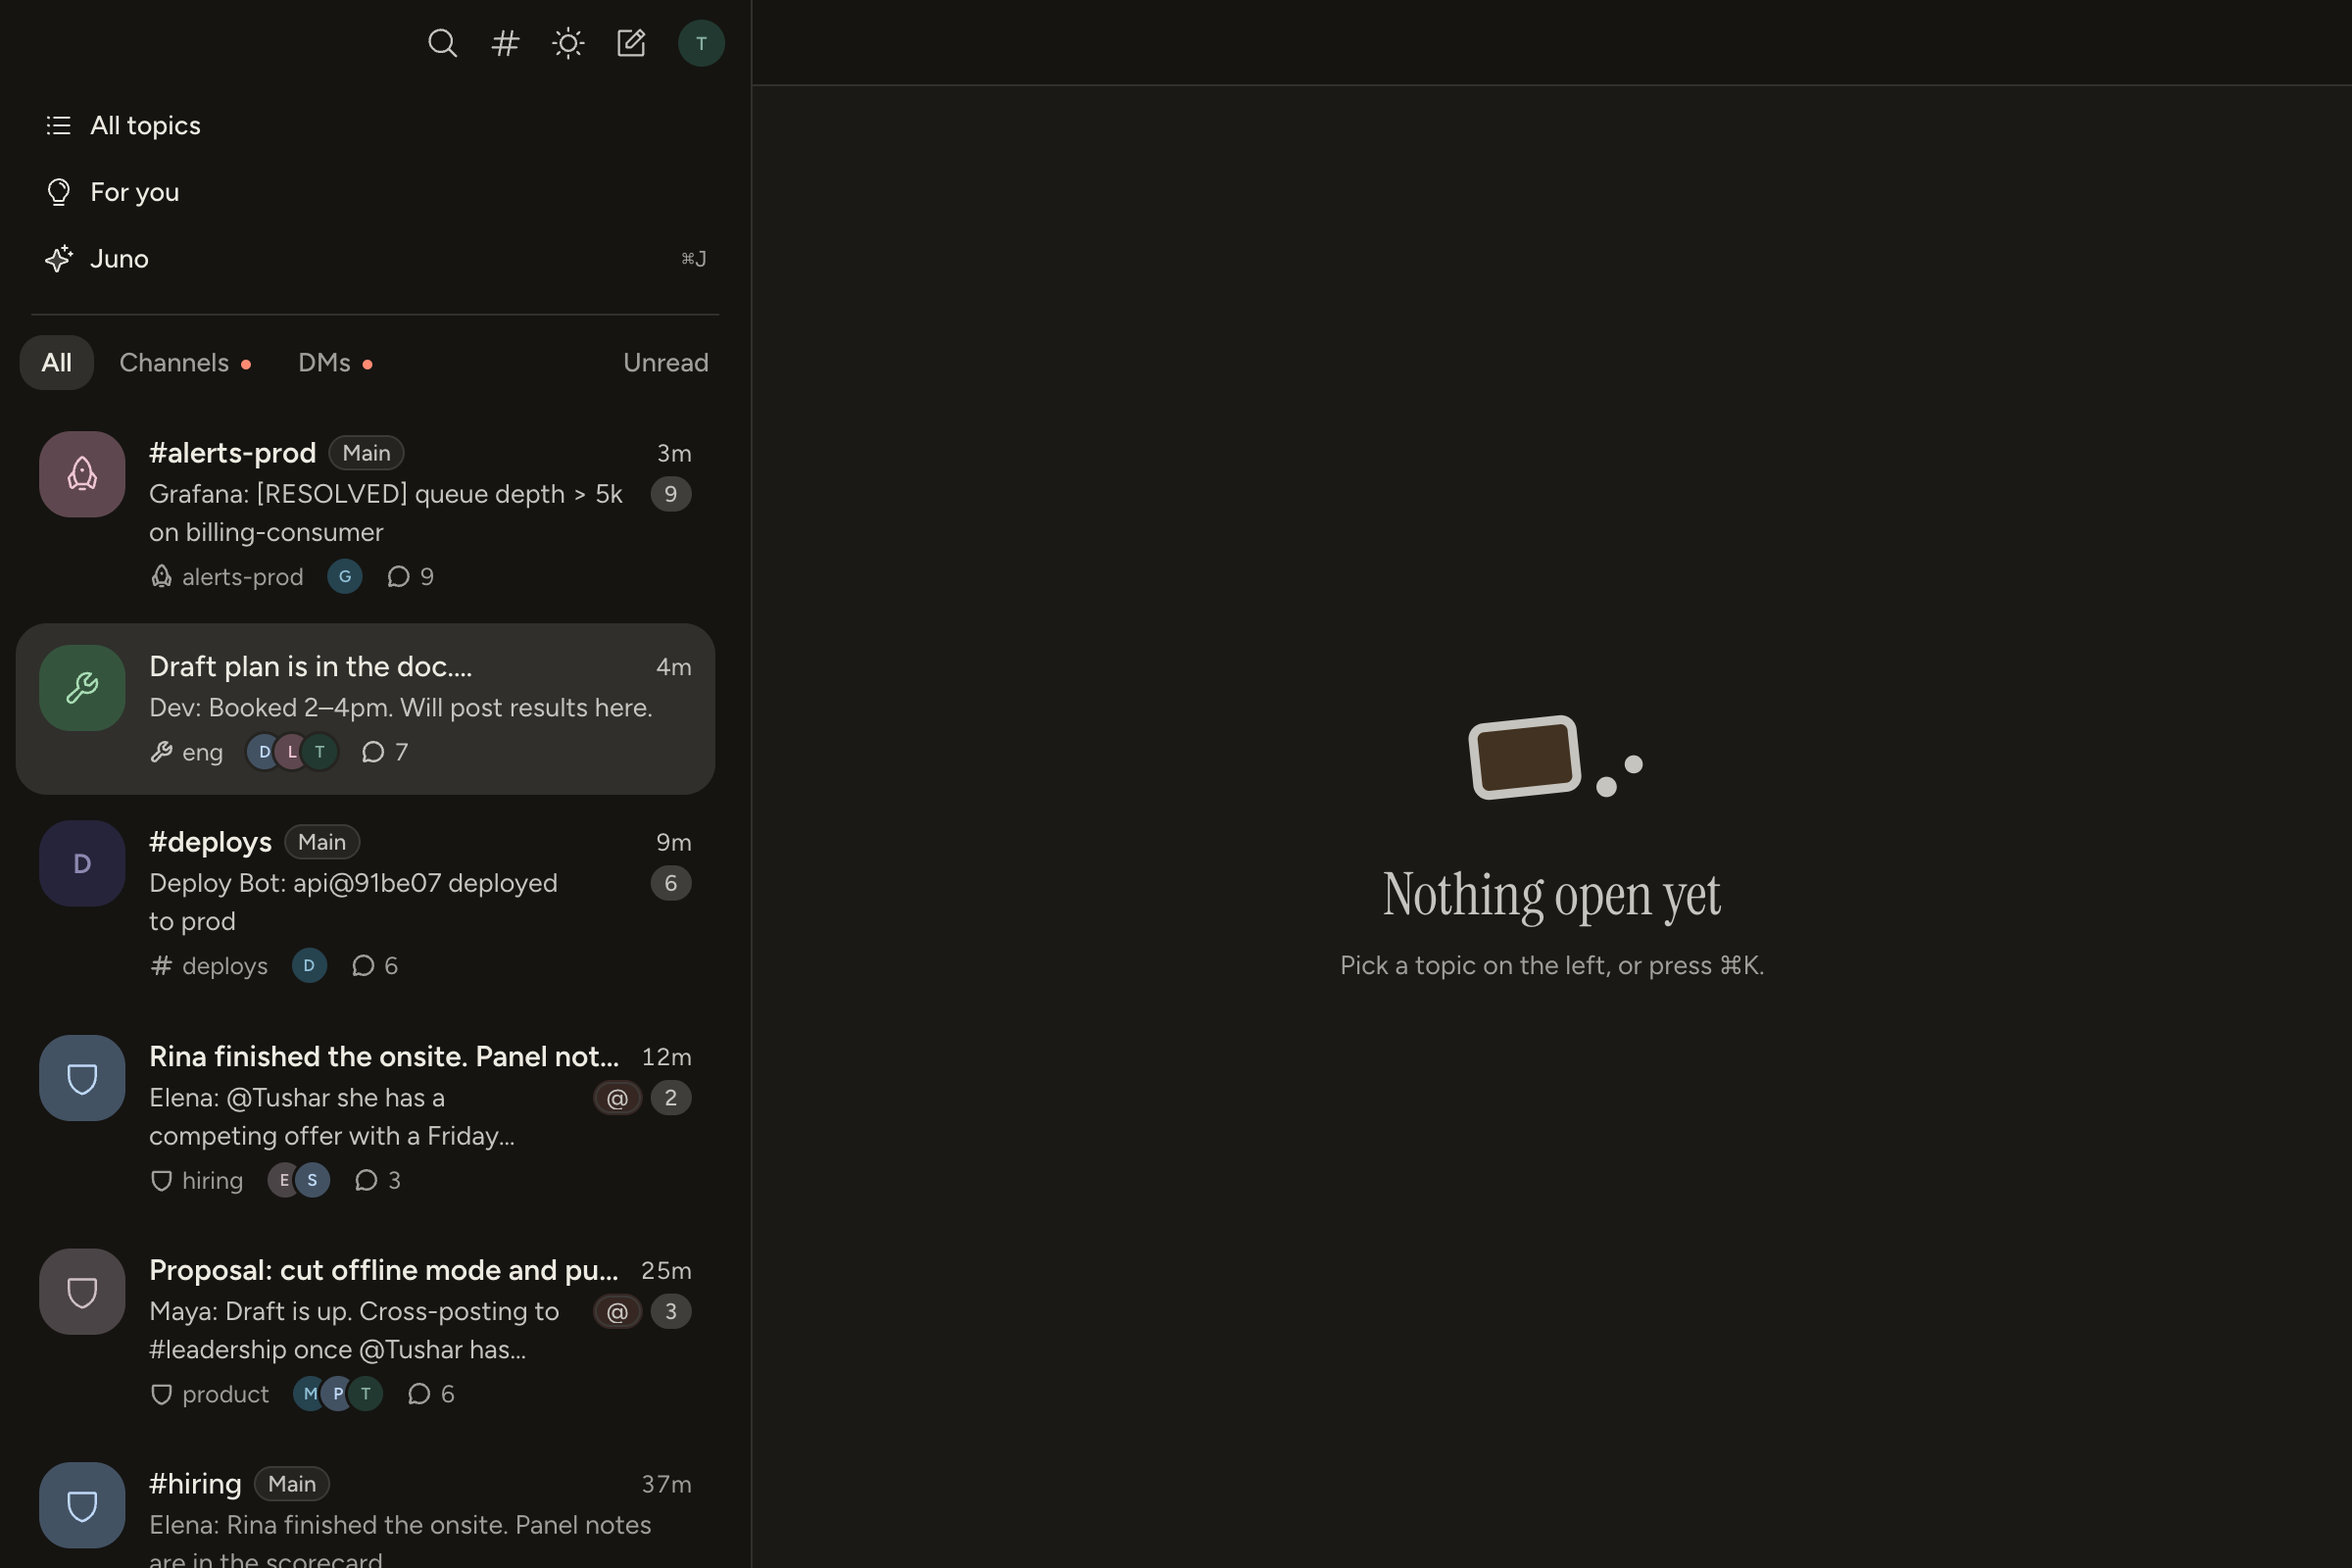
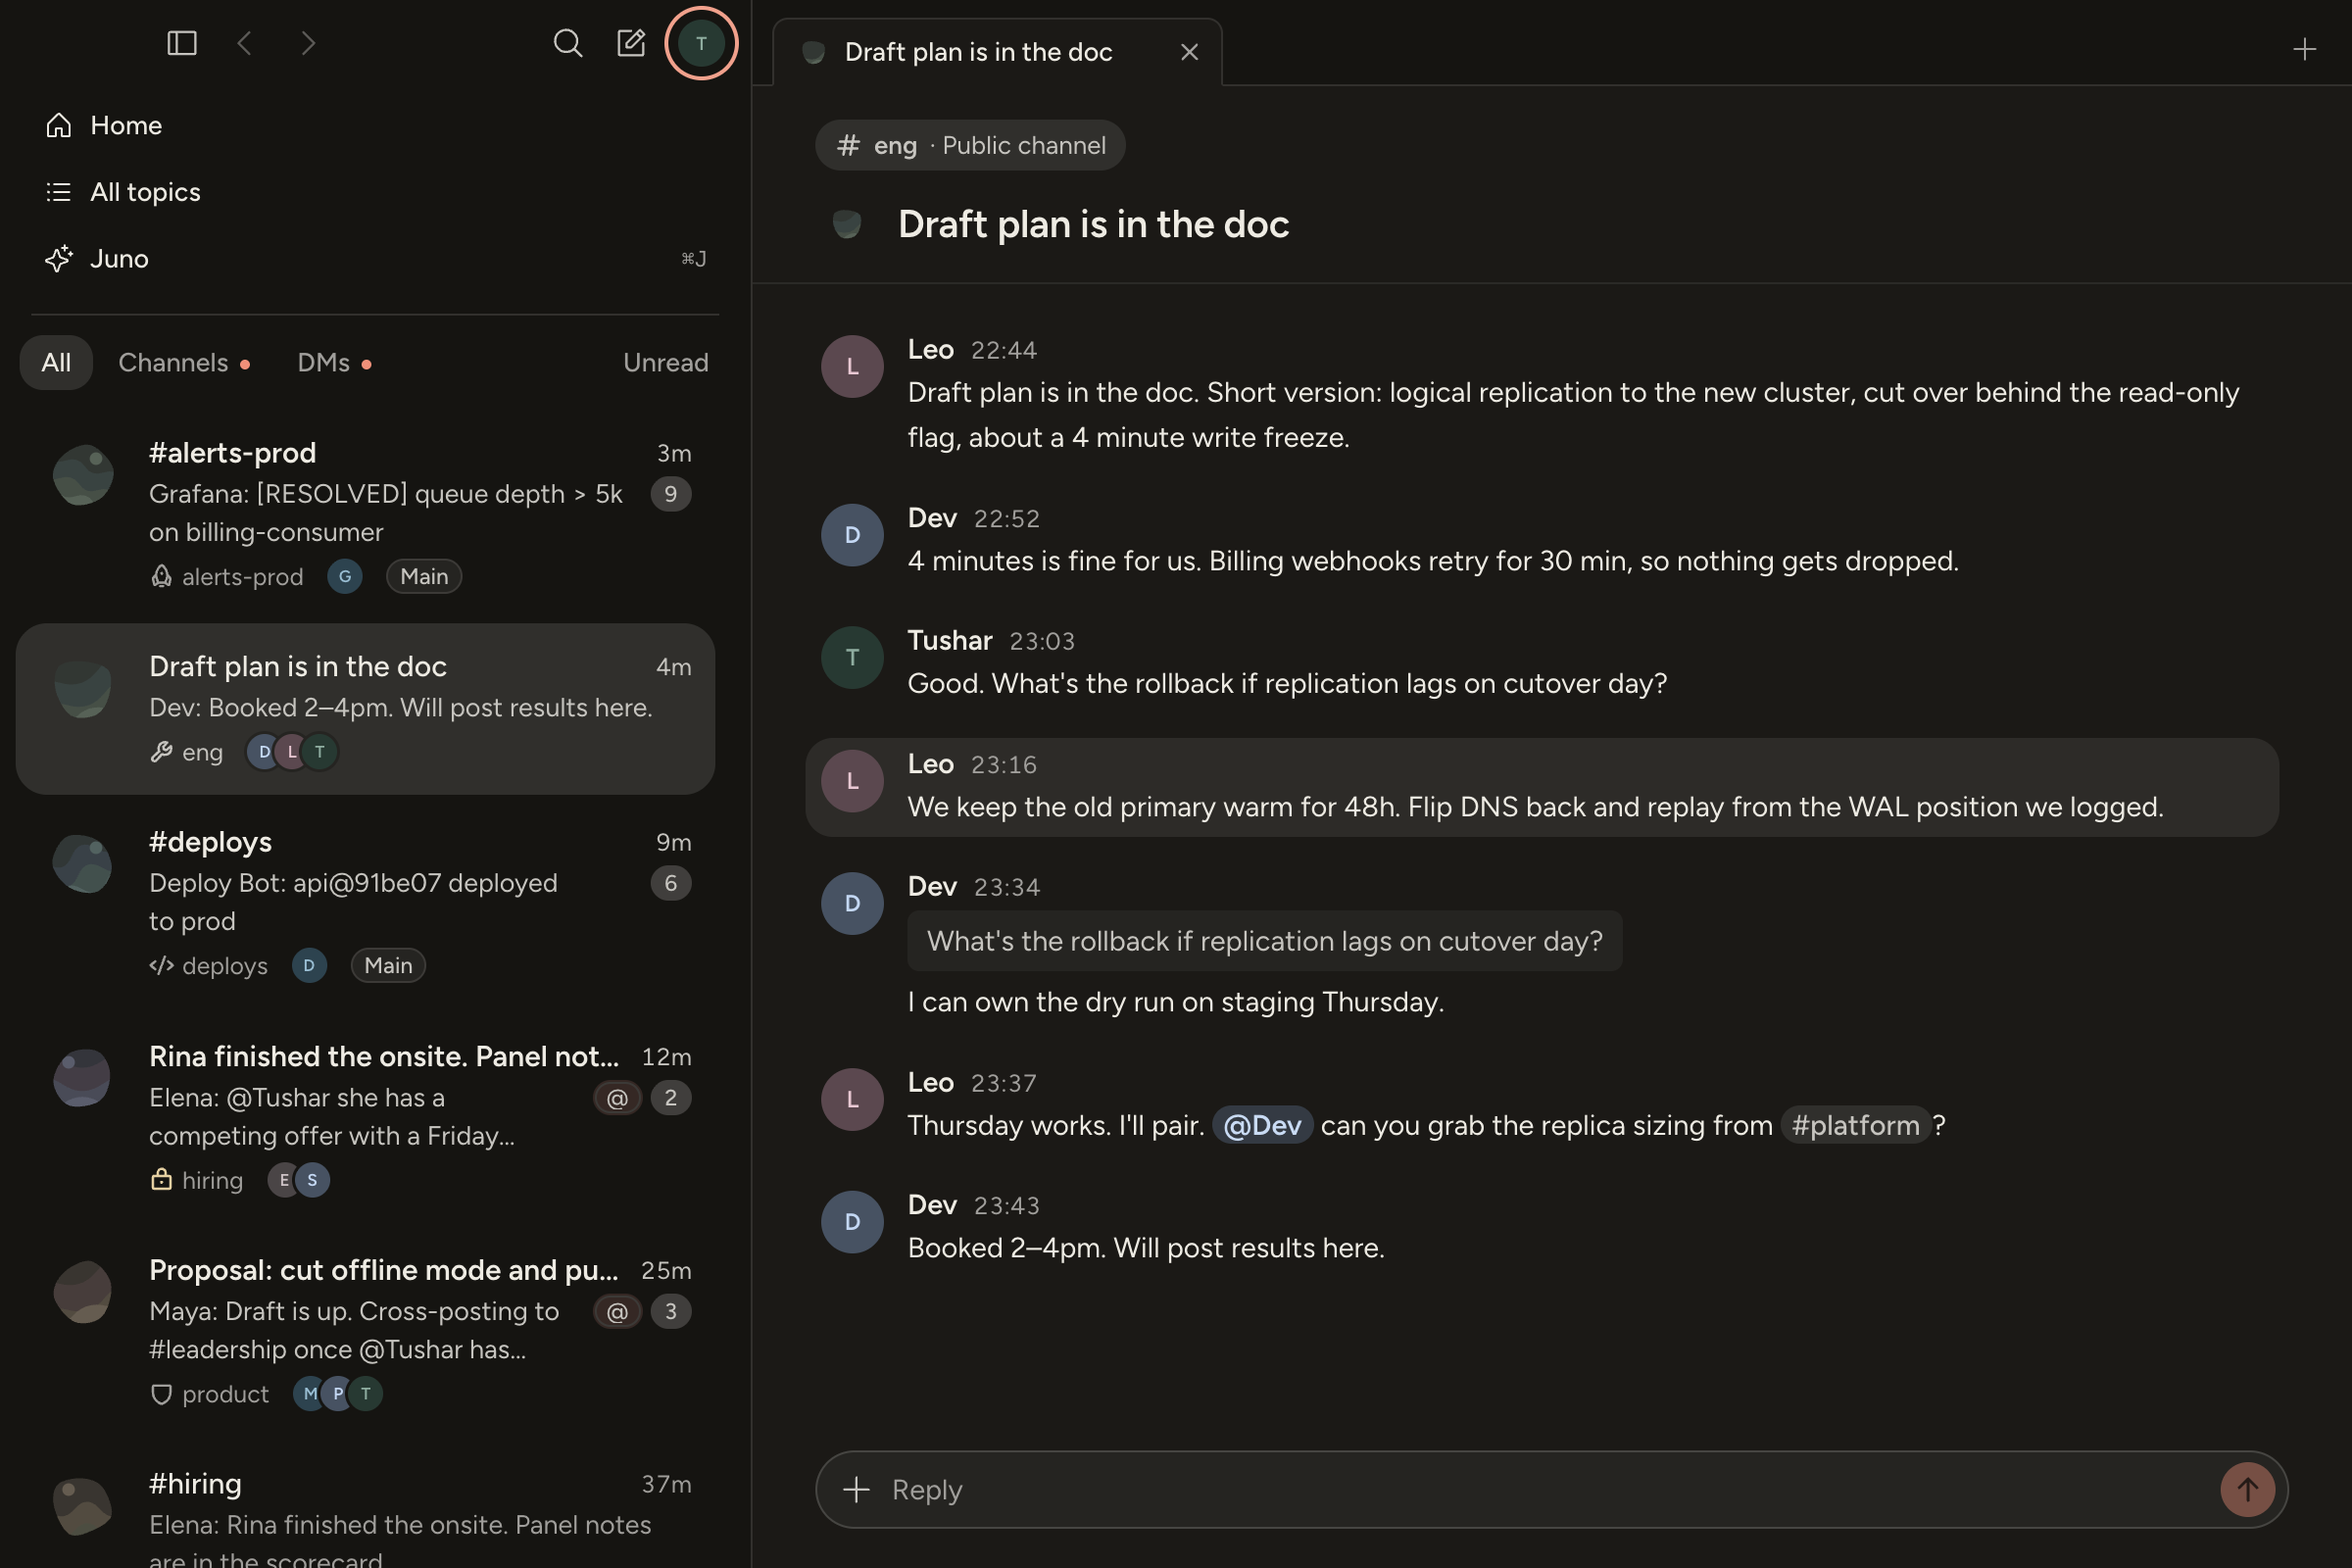
Add e2e flows for New chat and Home, and New chat screenshots

diff --git a/apps/desktop/e2e/newchat.spec.ts b/apps/desktop/e2e/newchat.spec.ts
@@ -1,0 +1,172 @@
+// New chat (spec section 9) and Home (section 12): write first and pick
+// where it goes, pick a thread first, change the destination, a preview that
+// never marks read, a first DM opened with conversations.open, and Home from
+// the sidebar.
+import { expect, test } from './fixtures'
+
+test.describe.configure({ timeout: 120_000 })
+
+const POSTGRES = 'Draft plan is in the doc'
+const OFFSITE = 'Can eng take the Wednesday afternoon'
+
+test('write first, then pick a destination and send: the tab becomes the topic, and the composer does not move', async ({ juno, fake }) => {
+  await juno.signIn()
+  await juno.waitForSync()
+  const { tabs, newChat, topic, nav } = juno
+
+  await tabs.newTabButton.click()
+  await tabs.expectActive('New chat')
+  await newChat.expectEmpty()
+  await expect(newChat.composer).toBeFocused()
+  await newChat.expectConversation('Pick a conversation')
+  await newChat.expectThread('Any thread')
+
+  // "+" again focuses the untouched New chat instead of opening another.
+  await tabs.newTabButton.click()
+  await tabs.expectCount(1)
+
+  await newChat.write('Cutover moves to Thursday night')
+  // Enter with no destination opens the conversation picker and keeps the draft.
+  await newChat.send()
+  await expect(newChat.search).toBeFocused()
+  await expect(newChat.composer).toHaveValue('Cutover moves to Thursday night')
+
+  await newChat.pickConversation('eng', 'eng')
+  await newChat.expectConversation('eng')
+  await newChat.expectThread('Main')
+  await tabs.expectActive('eng')
+  await expect(newChat.composer).toBeFocused()
+
+  const before = await newChat.field.boundingBox()
+  await newChat.send()
+  await topic.expectMessage('Cutover moves to Thursday night')
+  await tabs.expectActive('eng')
+  await expect(newChat.root).toHaveCount(0)
+  const after = await newChat.field.boundingBox()
+  expect(after).toEqual(before)
+
+  const posted = fake.calls.filter((call) => call.method === 'chat.postMessage')
+  expect(posted.map((call) => call.args['channel'])).toEqual(['C0ENG'])
+  // The New chat's entry became the topic: nothing to go back to in this new tab.
+  await nav.expectCanGo(false, false)
+})
+
+test('a thread picked first fills in the conversation, and the reply lands in the thread', async ({ juno, slack, fake }) => {
+  await juno.signIn()
+  await juno.waitForSync()
+  const { tabs, newChat, topic } = juno
+
+  await tabs.menu('new-chat')
+  await newChat.write('Thursday works for the freeze')
+  await newChat.pickThread('draft', POSTGRES)
+  await newChat.expectConversation('eng')
+  await newChat.expectThread(POSTGRES)
+  await tabs.expectActive(POSTGRES)
+  await newChat.expectPreview('Draft plan is in the doc')
+
+  await newChat.send()
+  await topic.expectTitle(POSTGRES)
+  await topic.expectMessage('Thursday works for the freeze')
+  const root = slack.root(POSTGRES)
+  const posted = fake.calls.find((call) => call.method === 'chat.postMessage')
+  expect(posted?.args['channel']).toBe(root.channel)
+  expect(posted?.args['thread_ts']).toBe(root.ts)
+})
+
+test('changing the destination before sending swaps the preview and sets the thread back to Main', async ({ juno, fake }) => {
+  await juno.signIn()
+  await juno.waitForSync()
+  const { tabs, newChat, topic } = juno
+
+  await tabs.menu('new-tab')
+  await newChat.write('Sending this to Maya instead')
+  await newChat.pickThread('draft', POSTGRES)
+  await newChat.expectConversation('eng')
+
+  await newChat.pickConversation('maya', 'Maya')
+  await newChat.expectConversation('Maya')
+  await newChat.expectThread('Main')
+  await newChat.expectPreview(OFFSITE)
+  await expect(newChat.composer).toHaveValue('Sending this to Maya instead')
+
+  await newChat.send()
+  await topic.expectMessage('Sending this to Maya instead')
+  await tabs.expectActive('Maya')
+  const posted = fake.calls.filter((call) => call.method === 'chat.postMessage')
+  expect(posted.map((call) => [call.args['channel'], call.args['thread_ts']])).toEqual([['D0MAYA', undefined]])
+})
+
+test('the preview never marks anything read', async ({ juno, slack }) => {
+  await juno.signIn()
+  await juno.waitForSync()
+  const { tabs, newChat, sidebar } = juno
+
+  slack.as('Leo').postIn('eng', 'Replica lag is under a second now')
+  const engMain = sidebar.row('#eng')
+  await engMain.expectPreview(/Replica lag is under a second now/)
+  const unread = Number(await engMain.root.locator('[title$=" unread"]').textContent())
+  expect(unread).toBeGreaterThan(0)
+  slack.resetCalls()
+
+  await tabs.newTabButton.click()
+  await newChat.pickConversation('eng', 'eng')
+  await newChat.expectPreview('Replica lag is under a second now')
+  await slack.expectNoMarks()
+  await engMain.expectUnread(unread)
+})
+
+test('a person never messaged: the start of the conversation, then conversations.open on send', async ({ juno, fake }) => {
+  await juno.signIn()
+  await juno.waitForSync()
+  const { tabs, newChat, topic } = juno
+
+  await tabs.newTabButton.click()
+  await newChat.conversationButton.click()
+  await newChat.search.fill('jon')
+  await expect(newChat.option('Jonas')).toContainText('No messages yet')
+  await newChat.option('Jonas').click()
+  await newChat.expectConversation('Jonas')
+  await newChat.expectNote('This is the start of your conversation with Jonas.')
+  expect(fake.calls.some((call) => call.method === 'conversations.open')).toBe(false)
+
+  await newChat.write('Welcome aboard. Your laptop arrives Monday.')
+  await newChat.send()
+  await topic.expectMessage('Welcome aboard. Your laptop arrives Monday.')
+  await tabs.expectActive('Jonas')
+  const opens = fake.calls.filter((call) => call.method === 'conversations.open')
+  expect(opens.map((call) => call.args['users'])).toEqual(['U0JONAS'])
+  const posted = fake.calls.find((call) => call.method === 'chat.postMessage')
+  expect(fake.workspace.conversation(String(posted?.args['channel']))?.kind).toBe('im')
+})
+
+test('Home opens from the sidebar as one tab, and reads as selected with no tab open', async ({ juno, win }) => {
+  await juno.signIn()
+  await juno.waitForSync()
+  const { tabs, sidebar, topic, nav } = juno
+  const home = win.getByRole('navigation', { name: 'Pages' }).getByRole('button', { name: 'Home' })
+
+  await expect(home).toHaveAttribute('aria-current', 'page')
+  await juno.expectNothingOpen()
+
+  await sidebar.row(POSTGRES).open()
+  await topic.expectTitle(POSTGRES)
+  await expect(home).not.toHaveAttribute('aria-current', 'page')
+
+  await home.click()
+  await tabs.expectActive('Home')
+  await tabs.expectCount(1)
+  await expect(home).toHaveAttribute('aria-current', 'page')
+  await juno.expectNothingOpen()
+  await nav.back()
+  await topic.expectTitle(POSTGRES)
+
+  // A singleton: opening it again focuses the tab that shows it.
+  await sidebar.row(OFFSITE).openInNewTab()
+  await tabs.select(POSTGRES)
+  await home.click()
+  await tabs.expectActive('Home')
+  await tabs.select(OFFSITE)
+  await home.click()
+  await tabs.expectCount(2)
+  await tabs.expectActive('Home')
+})

diff --git a/apps/desktop/e2e/driver/juno.ts b/apps/desktop/e2e/driver/juno.ts
@@ -368,6 +368,7 @@ export class Juno {
   readonly sidebar: Sidebar
   readonly accountMenu: AccountMenu
   readonly topic: TopicPane
+  readonly newChat: NewChatPane
   readonly tabs: TabStrip
   readonly nav: Navigation
   readonly frame: SidebarFrame
@@ -379,6 +380,7 @@ export class Juno {
     this.sidebar = new Sidebar(win)
     this.accountMenu = new AccountMenu(win, this.sidebar)
     this.topic = new TopicPane(win)
+    this.newChat = new NewChatPane(win)
     this.tabs = new TabStrip(app, win)
     this.nav = new Navigation(app, win)
     this.frame = new SidebarFrame(app, win)
@@ -579,6 +581,92 @@ async function chooseNextMenuItem(win: Page, id: string): Promise<void> {
 const BOTTOM_SLACK = 2
 
 /** The topic shown in the active tab. Hidden tabs stay in the page with `display: none`. */
+/** A New chat tab: the two pickers, the composer and the preview (spec section 9). */
+export class NewChatPane {
+  readonly root: Locator
+
+  constructor(readonly win: Page) {
+    this.root = win.locator('[data-new-chat]').filter({ visible: true })
+  }
+
+  get composer(): Locator {
+    return this.root.locator('[data-composer] textarea')
+  }
+
+  /** The composer's field, whose box must not move when the tab becomes the topic. */
+  get field(): Locator {
+    return this.win.locator('[data-composer-field]').filter({ visible: true })
+  }
+
+  get conversationButton(): Locator {
+    return this.root.getByRole('button', { name: /^Conversation: / })
+  }
+
+  get threadButton(): Locator {
+    return this.root.getByRole('button', { name: /^Thread: / })
+  }
+
+  /** The open picker's list. */
+  get list(): Locator {
+    return this.root.getByRole('listbox')
+  }
+
+  get search(): Locator {
+    return this.root.getByRole('dialog').getByRole('textbox')
+  }
+
+  /** The row in the open list named `name`, followed by its sub line ("Direct message"). */
+  option(name: string): Locator {
+    return this.list.getByRole('option', { name: new RegExp(`^${escapeRegExp(name)}(\\s|$)`) })
+  }
+
+  async write(text: string): Promise<void> {
+    await this.composer.fill(text)
+  }
+
+  /** Enter in the composer. */
+  async send(): Promise<void> {
+    await this.composer.press('Enter')
+  }
+
+  /** Opens the conversation list, searches it, and picks the row that starts with `name`. */
+  async pickConversation(query: string, name: string): Promise<void> {
+    if (!(await this.search.isVisible())) await this.conversationButton.click()
+    await this.search.fill(query)
+    await this.option(name).click()
+    await expect(this.list).toBeHidden()
+  }
+
+  /** Opens the thread list, searches it, and picks the row that starts with `title`. */
+  async pickThread(query: string, title: string): Promise<void> {
+    await this.threadButton.click()
+    await this.search.fill(query)
+    await this.option(title).click()
+    await expect(this.list).toBeHidden()
+  }
+
+  async expectEmpty(): Promise<void> {
+    await expect(this.root.getByText('Write your message, then pick where it goes.', { exact: true })).toBeVisible()
+  }
+
+  async expectConversation(name: string): Promise<void> {
+    await expect(this.conversationButton).toHaveAccessibleName(`Conversation: ${name}`)
+  }
+
+  async expectThread(name: string): Promise<void> {
+    await expect(this.threadButton).toHaveAccessibleName(`Thread: ${name}`)
+  }
+
+  /** A message in the preview. */
+  async expectPreview(text: string): Promise<void> {
+    await expect(this.root.locator('[data-message-row]').filter({ hasText: text }).first()).toBeVisible({ timeout: 15_000 })
+  }
+
+  async expectNote(text: string): Promise<void> {
+    await expect(this.root.getByText(text, { exact: true })).toBeVisible()
+  }
+}
+
 export class TopicPane {
   readonly root: Locator
 

diff --git a/apps/desktop/e2e/screens.spec.ts b/apps/desktop/e2e/screens.spec.ts
@@ -30,3 +30,28 @@ test('the sidebar, light and dark', async ({ juno, win }) => {
   await win.waitForTimeout(300)
   await win.screenshot({ path: resolve(screens, 'sidebar-dark.png') })
 })
+
+test('New chat with a destination and the thread list open, light and dark', async ({ juno, win }) => {
+  test.setTimeout(120_000)
+  await juno.signIn()
+  await juno.waitForSync()
+  const { sidebar, tabs, newChat } = juno
+  await sidebar.row('Draft plan is in the doc').open()
+  await tabs.newTabButton.click()
+  await newChat.write('Can we move the cutover to Thursday night? Dev needs one more day on the replica check.')
+  await newChat.pickConversation('eng', 'eng')
+  await newChat.expectPreview('Draft plan is in the doc')
+  await newChat.threadButton.click()
+  await expect(newChat.list).toBeVisible()
+  await win.evaluate(() => document.fonts.ready)
+  await win.waitForTimeout(300)
+  await win.screenshot({ path: resolve(screens, 'new-chat-light.png') })
+
+  await win.keyboard.press('Escape')
+  await juno.setTheme('Dark')
+  await expect(win.locator('html')).not.toHaveAttribute('data-theme-switching', /.*/)
+  await newChat.threadButton.click()
+  await expect(newChat.list).toBeVisible()
+  await win.waitForTimeout(300)
+  await win.screenshot({ path: resolve(screens, 'new-chat-dark.png') })
+})

diff --git a/apps/desktop/e2e/navigation.spec.ts b/apps/desktop/e2e/navigation.spec.ts
@@ -58,7 +58,7 @@ test('Back and Forward move through the topics one tab showed', async ({ juno })
   await tabs.menu('new-tab')
   await tabs.expectCount(2)
   await tabs.expectActive('New chat')
-  await juno.expectNothingOpen()
+  await juno.newChat.expectEmpty()
   await nav.expectCanGo(false, false)
   await sidebar.row(POSTGRES).open()
   await tabs.expectCount(2)
